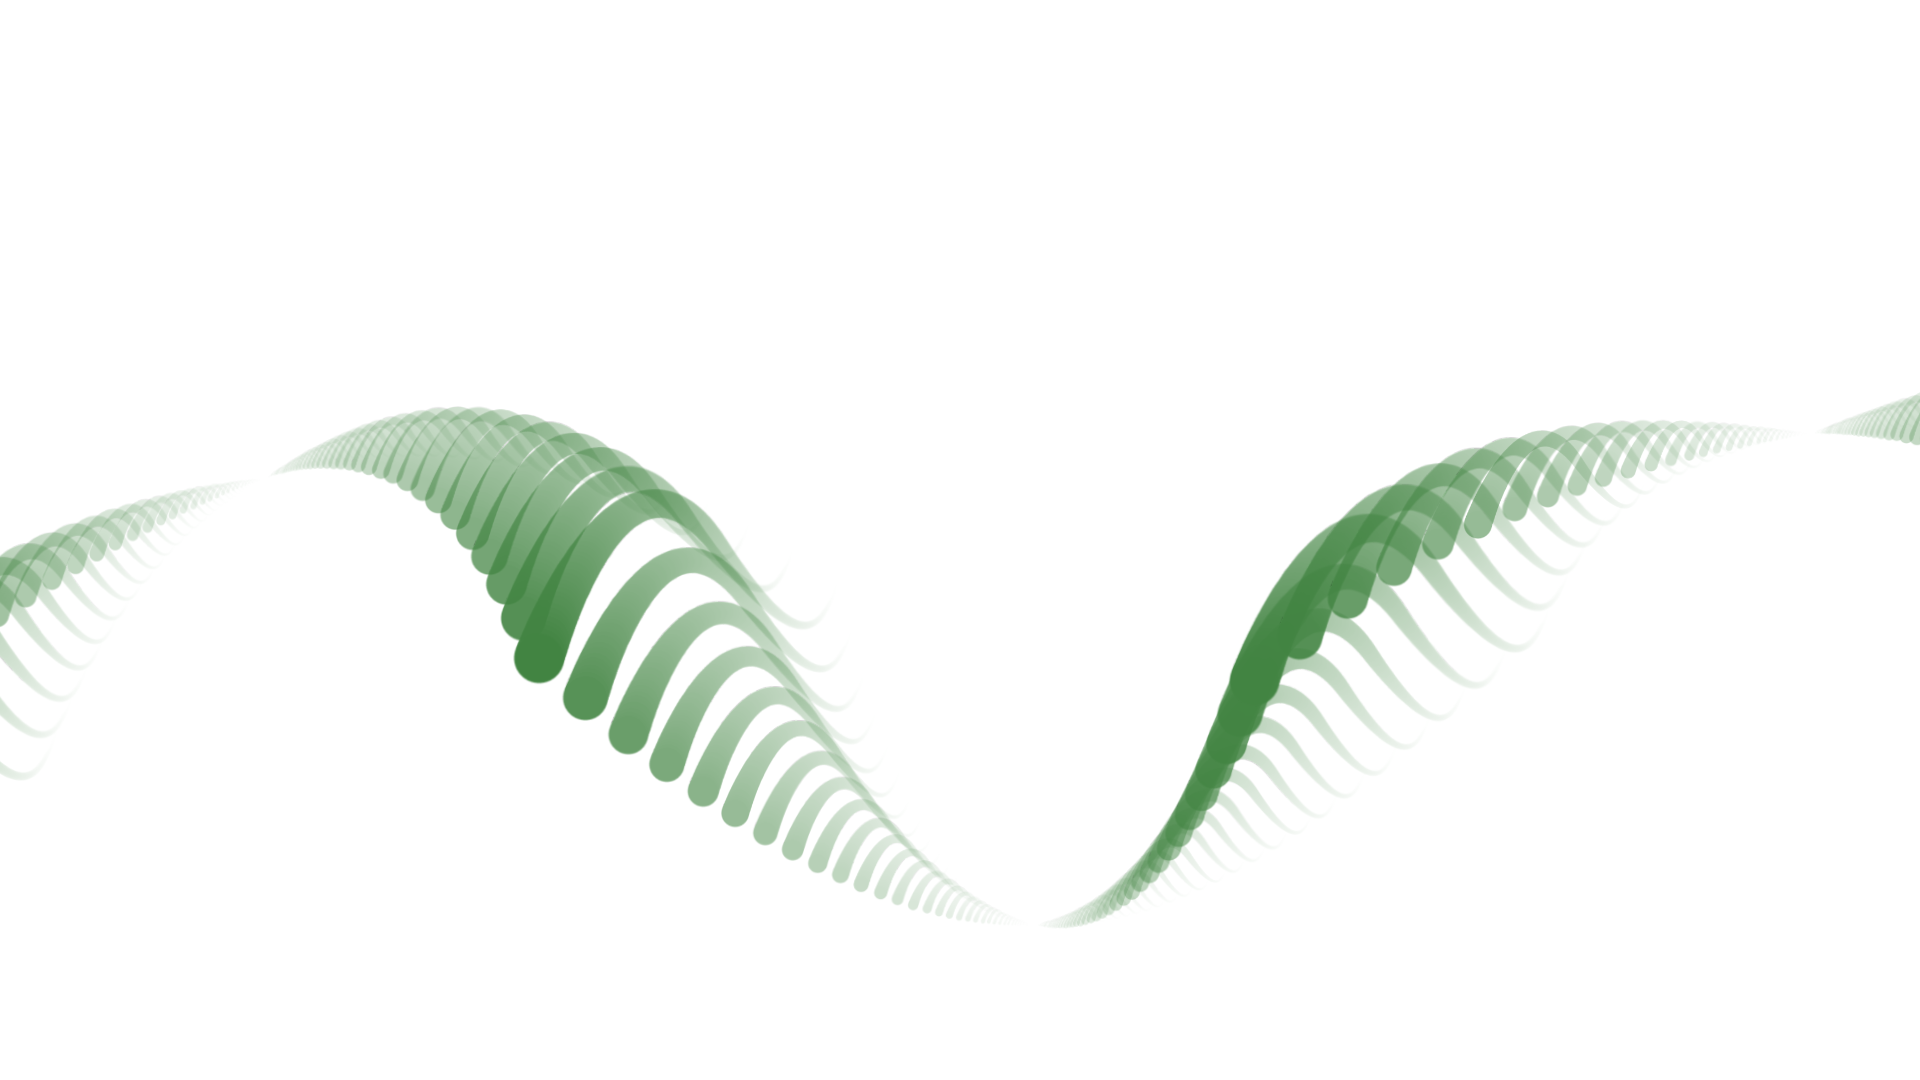
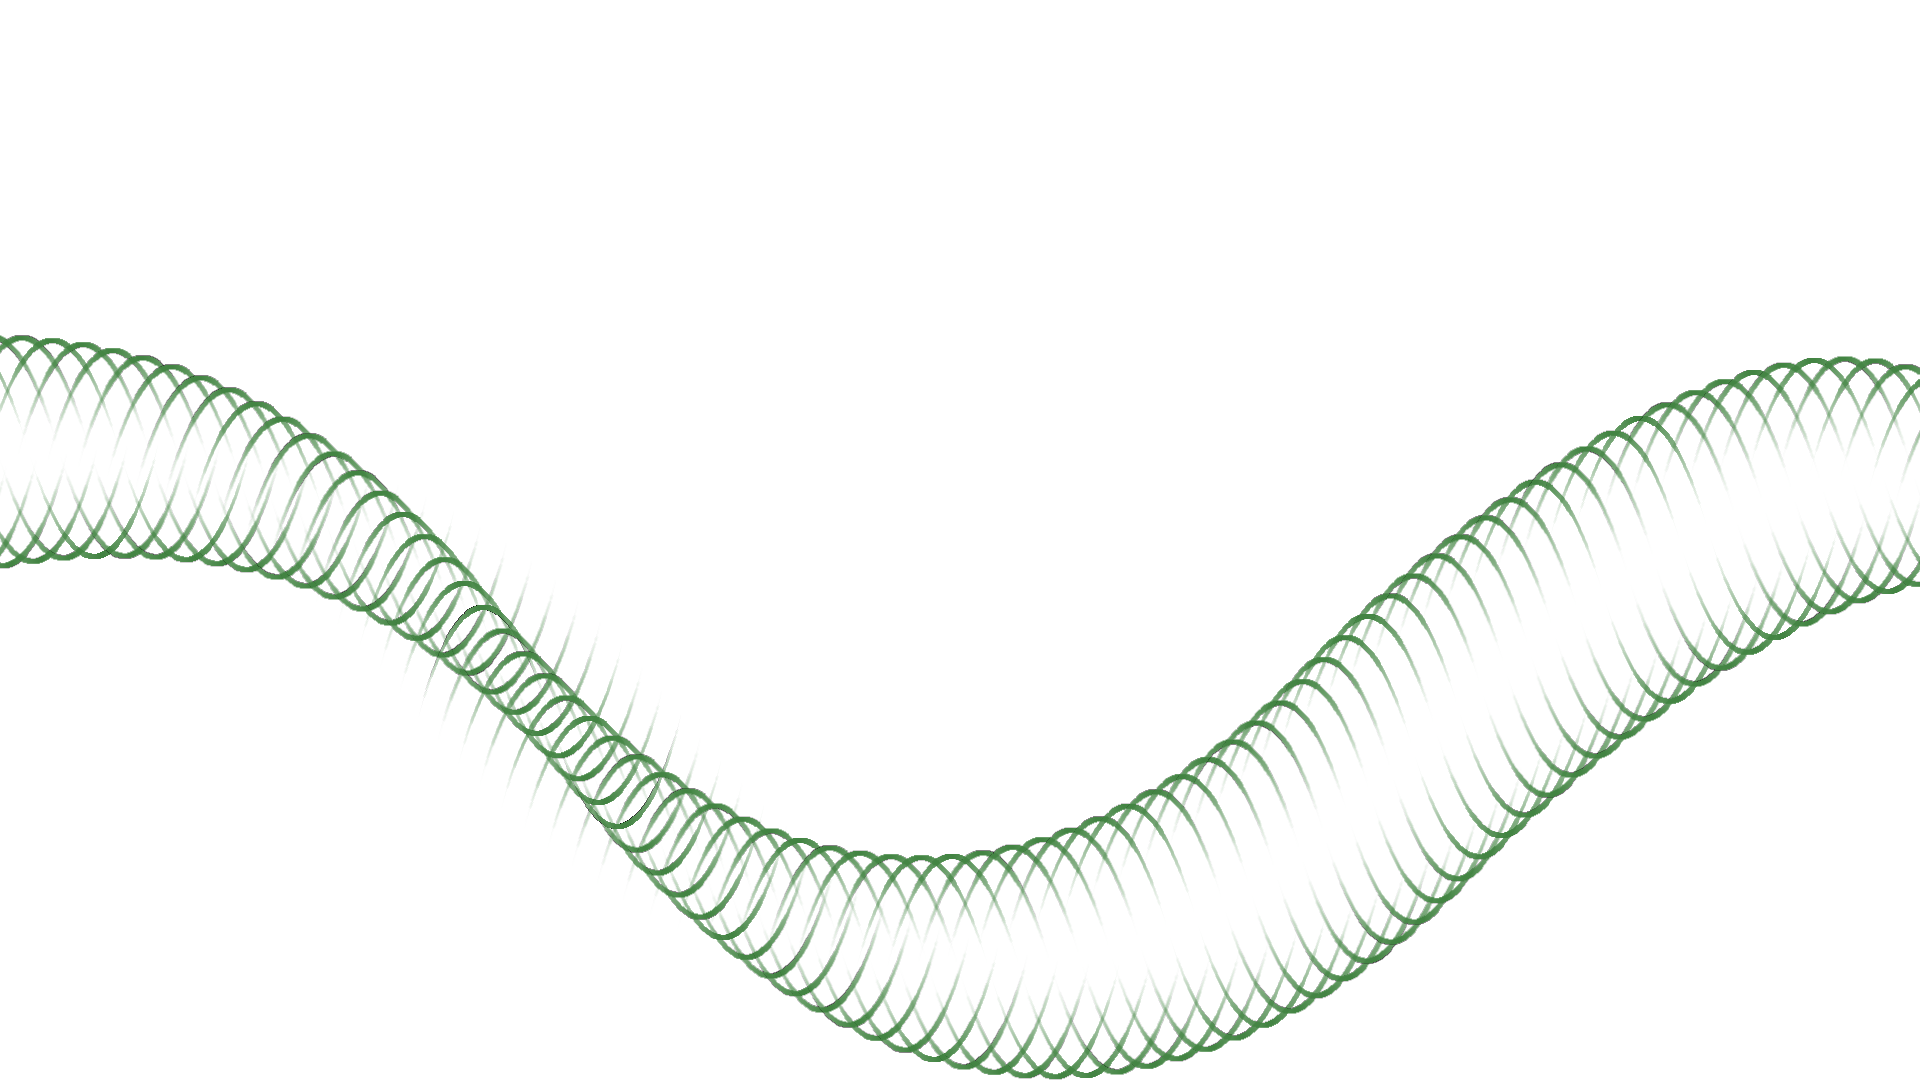
updated layouts and background

Changed region(s): [[0.0, 0.3056, 1.0, 1.0]]

diff --git a/src/lib/timeline_card.svelte b/src/lib/timeline_card.svelte
@@ -34,20 +34,20 @@
   color:green;
   font-size:17px;
   padding-top:5px;
+  text-align: center;
 }
 .timeline ul li .content p{
   padding:5px 0px 15px 0px;
   font-size:15px;
   text-align: justify;
+  line-height: 150%;
 }
 
 span {
-  display:inline-block;
-  /* background-color:rgba(152, 251, 152);
-  border-radius:25px; */
+  display:block;
   padding:2px 15px;
-  font-size:15px;
-  text-align:center;
+  font-size: 15px;
+  text-align: center;
   text-decoration: underline;
 }
 

diff --git a/src/routes/+layout.svelte b/src/routes/+layout.svelte
@@ -7,7 +7,6 @@
       background-color: mintcream;
       background-image: url('/wavey.png');
       background-repeat: repeat-y;
-      background-size: 100%;
       display: grid;
       place-items: center;
       min-height: 100vh;
